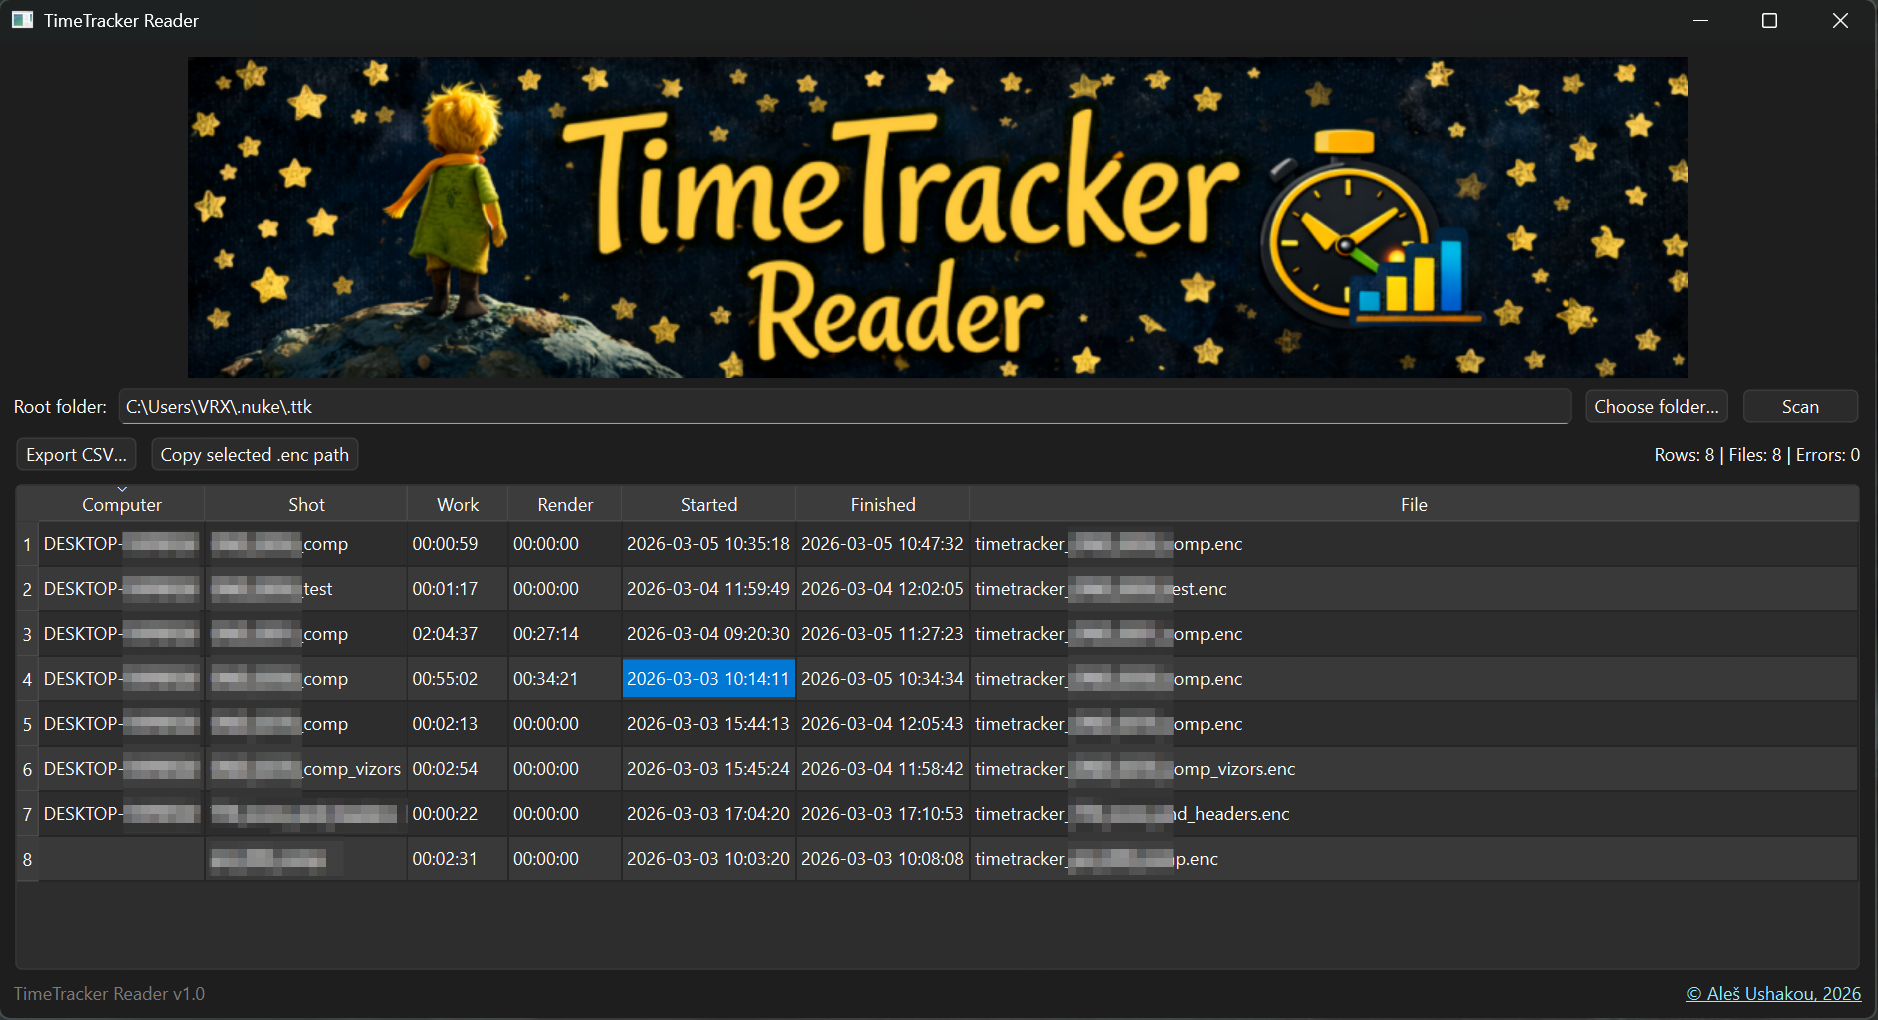
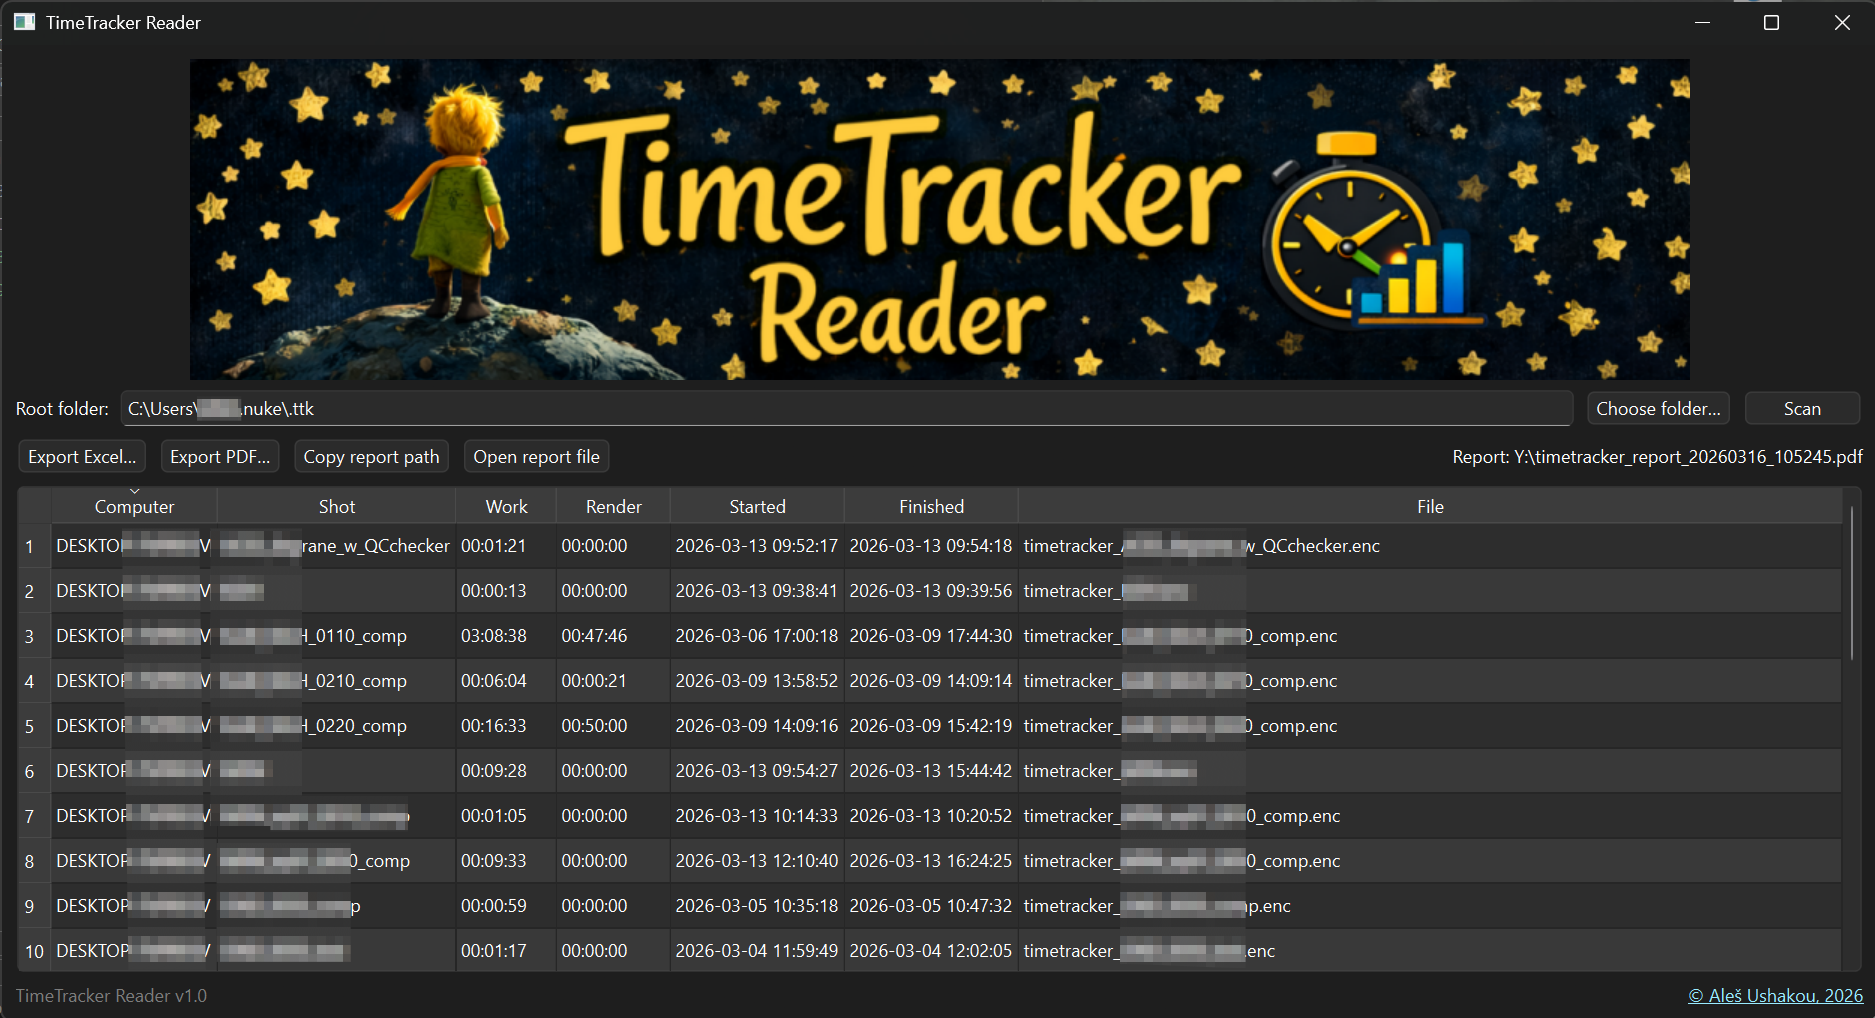
TTKReader v1.1 — add Excel/PDF export and report tools
TTKReader updated to version 1.1.

Changes:
- Added report export to Excel (.xlsx)
- Added report export to PDF
- Added "Copy report path" button
- Added "Open report file" button
- Removed CSV export
- Removed "Copy selected .enc path"
- Improved report workflow

Excel export uses openpyxl with automatic column width.
PDF export uses reportlab and includes formatted report layout.

diff --git a/TimeTracker/TTKReader/TTKReader.py b/TimeTracker/TTKReader/TTKReader.py
@@ -1,10 +1,11 @@
 import os
 import sys
-import csv
 import json
 import base64
 import hashlib
 import hmac
+import subprocess
+import shutil
 from datetime import datetime
 
 # ---- Qt ----
@@ -14,7 +15,7 @@ except ImportError:
     from PySide2 import QtWidgets, QtCore, QtGui
 
 
-TTK_VERSION = "1.0"
+TTK_VERSION = "1.1"
 _TIMETRACKER_KEY = "Ales_Ushakou_Internal_Key_2026"
 _TIMETRACKER_SALT = "Ales_Ushakou_Salt_2026"
 
@@ -186,9 +187,12 @@ class ReaderWindow(QtWidgets.QMainWindow):
         self.pathEdit = QtWidgets.QLineEdit()
         self.btnBrowse = QtWidgets.QPushButton("Choose folder…")
         self.btnScan = QtWidgets.QPushButton("Scan")
-        self.btnExport = QtWidgets.QPushButton("Export CSV…")
-        self.btnCopyFile = QtWidgets.QPushButton("Copy selected .enc path")
+        self.btnExportExcel = QtWidgets.QPushButton("Export Excel…")
+        self.btnExportPDF = QtWidgets.QPushButton("Export PDF…")
+        self.btnCopyReportPath = QtWidgets.QPushButton("Copy report path")
+        self.btnOpenReportFile = QtWidgets.QPushButton("Open report file")
         self.status = QtWidgets.QLabel("")
+        self.last_report_path = ""
 
         # ---- Version label (dynamic, safe) ----
 
@@ -211,8 +215,10 @@ class ReaderWindow(QtWidgets.QMainWindow):
         top.addWidget(self.btnScan)
 
         btns = QtWidgets.QHBoxLayout()
-        btns.addWidget(self.btnExport)
-        btns.addWidget(self.btnCopyFile)
+        btns.addWidget(self.btnExportExcel)
+        btns.addWidget(self.btnExportPDF)
+        btns.addWidget(self.btnCopyReportPath)
+        btns.addWidget(self.btnOpenReportFile)
         btns.addStretch(1)
         btns.addWidget(self.status)
 
@@ -253,8 +259,10 @@ class ReaderWindow(QtWidgets.QMainWindow):
 
         self.btnBrowse.clicked.connect(self.choose_folder)
         self.btnScan.clicked.connect(self.scan)
-        self.btnExport.clicked.connect(self.export_csv)
-        self.btnCopyFile.clicked.connect(self.copy_selected_file)
+        self.btnExportExcel.clicked.connect(self.export_excel)
+        self.btnExportPDF.clicked.connect(self.export_pdf)
+        self.btnCopyReportPath.clicked.connect(self.copy_report_path)
+        self.btnOpenReportFile.clicked.connect(self.open_report_file)
 
         # initial folder from settings (or fallback)
         try:
@@ -384,56 +392,191 @@ class ReaderWindow(QtWidgets.QMainWindow):
 
         self.table.setSortingEnabled(True)
 
-    def export_csv(self):
+    def _suggest_report_name(self, ext: str) -> str:
+        stamp = datetime.now().strftime("%Y%m%d_%H%M%S")
+        return f"timetracker_report_{stamp}.{ext}"
+
+    def _set_last_report_path(self, path: str):
+        self.last_report_path = os.path.normpath(path) if path else ""
+        if self.last_report_path:
+            self.set_status(f"Report: {self.last_report_path}")
+
+    def export_excel(self):
         if not self.rows:
             QtWidgets.QMessageBox.information(self, "Info", "Nothing to export. Scan first.")
             return
 
+        try:
+            from openpyxl import Workbook
+        except Exception:
+            QtWidgets.QMessageBox.warning(
+                self,
+                "Missing dependency",
+                "openpyxl is not installed.\nInstall it with: pip install openpyxl",
+            )
+            return
+
         out, _ = QtWidgets.QFileDialog.getSaveFileName(
             self,
-            "Export CSV",
-            "timetracker_report.csv",
-            "CSV (*.csv)",
+            "Export Excel",
+            self._suggest_report_name("xlsx"),
+            "Excel (*.xlsx)",
         )
         if not out:
             return
+        if not out.lower().endswith(".xlsx"):
+            out += ".xlsx"
 
-        with open(out, "w", newline="", encoding="utf-8") as f:
-            w = csv.writer(f)
-            w.writerow(COLS)
-            for r in self.rows:
-                w.writerow(
-                    [
-                        r.get("computer", ""),
-                        r.get("shot", ""),
-                        r.get("work", ""),
-                        r.get("render", ""),
-                        r.get("started_at", ""),
-                        r.get("finished_at", ""),
-                        r.get("file", ""),
-                    ]
-                )
+        wb = Workbook()
+        ws = wb.active
+        ws.title = "TimeTracker Report"
+        ws.append(COLS)
 
+        for r in self.rows:
+            ws.append([
+                r.get("computer", ""),
+                r.get("shot", ""),
+                r.get("work", ""),
+                r.get("render", ""),
+                r.get("started_at", ""),
+                r.get("finished_at", ""),
+                r.get("file", ""),
+            ])
+
+        # auto column width
+        for col_cells in ws.columns:
+            max_len = 0
+            col_letter = col_cells[0].column_letter
+            for cell in col_cells:
+                try:
+                    val = "" if cell.value is None else str(cell.value)
+                except Exception:
+                    val = ""
+                max_len = max(max_len, len(val))
+            ws.column_dimensions[col_letter].width = min(max(max_len + 2, 10), 60)
+
+        wb.save(out)
+        self._set_last_report_path(out)
         QtWidgets.QMessageBox.information(self, "Done", f"Saved:\n{out}")
 
-    def copy_selected_file(self):
-        row = self.table.currentRow()
-        if row < 0:
-            QtWidgets.QMessageBox.information(self, "Info", "Select a row first.")
+    def export_pdf(self):
+        if not self.rows:
+            QtWidgets.QMessageBox.information(self, "Info", "Nothing to export. Scan first.")
             return
 
-        fp_item = self.table.item(row, 6)
-        fp = ""
         try:
-            fp = (fp_item.data(QtCore.Qt.UserRole) or "") if fp_item else ""
+            from reportlab.lib import colors
+            from reportlab.lib.pagesizes import A4, landscape
+            from reportlab.lib.styles import getSampleStyleSheet, ParagraphStyle
+            from reportlab.lib.enums import TA_LEFT
+            from reportlab.lib.units import mm
+            from reportlab.platypus import SimpleDocTemplate, Table, TableStyle, Paragraph, Spacer, Image
         except Exception:
-            fp = ""
-
-        if not fp:
-            QtWidgets.QMessageBox.information(self, "Info", "Can't read file path from selection.")
+            QtWidgets.QMessageBox.warning(
+                self,
+                "Missing dependency",
+                "reportlab is not installed.\nInstall it with: pip install reportlab",
+            )
             return
 
-        QtWidgets.QApplication.clipboard().setText(os.path.normpath(fp))
+        out, _ = QtWidgets.QFileDialog.getSaveFileName(
+            self,
+            "Export PDF",
+            self._suggest_report_name("pdf"),
+            "PDF (*.pdf)",
+        )
+        if not out:
+            return
+        if not out.lower().endswith(".pdf"):
+            out += ".pdf"
+
+        doc = SimpleDocTemplate(out, pagesize=landscape(A4), leftMargin=12 * mm, rightMargin=12 * mm, topMargin=10 * mm, bottomMargin=10 * mm)
+        styles = getSampleStyleSheet()
+        title_style = ParagraphStyle("TTKTitle", parent=styles["Title"], alignment=TA_LEFT, textColor=colors.HexColor("#ff8a00"), fontSize=18, leading=22, spaceAfter=4)
+        subtitle_style = ParagraphStyle("TTKSubtitle", parent=styles["Normal"], alignment=TA_LEFT, fontSize=9, textColor=colors.HexColor("#666666"), leading=11, spaceAfter=10)
+
+        elements = []
+
+        banner = _banner_path()
+        if os.path.isfile(banner):
+            try:
+                img = Image(banner)
+                max_w = doc.width
+                iw = float(getattr(img, 'imageWidth', 1) or 1)
+                ih = float(getattr(img, 'imageHeight', 1) or 1)
+                scale = min(max_w / iw, 1.0)
+                img.drawWidth = iw * scale
+                img.drawHeight = ih * scale
+                elements.append(img)
+                elements.append(Spacer(1, 6))
+            except Exception:
+                pass
+
+        elements.append(Paragraph("TimeTracker Report", title_style))
+        elements.append(Paragraph("from TTKReader", subtitle_style))
+
+        data = [COLS]
+        for r in self.rows:
+            data.append([
+                r.get("computer", ""),
+                r.get("shot", ""),
+                r.get("work", ""),
+                r.get("render", ""),
+                r.get("started_at", ""),
+                r.get("finished_at", ""),
+                r.get("file", ""),
+            ])
+
+        table = Table(data, repeatRows=1)
+        table.setStyle(TableStyle([
+            ("BACKGROUND", (0, 0), (-1, 0), colors.HexColor("#ff8a00")),
+            ("TEXTCOLOR", (0, 0), (-1, 0), colors.white),
+            ("FONTNAME", (0, 0), (-1, 0), "Helvetica-Bold"),
+            ("FONTSIZE", (0, 0), (-1, -1), 8),
+            ("LEADING", (0, 0), (-1, -1), 10),
+            ("GRID", (0, 0), (-1, -1), 0.25, colors.HexColor("#cccccc")),
+            ("ROWBACKGROUNDS", (0, 1), (-1, -1), [colors.whitesmoke, colors.HexColor("#f7f7f7")]),
+            ("ALIGN", (2, 1), (3, -1), "LEFT"),
+            ("VALIGN", (0, 0), (-1, -1), "MIDDLE"),
+            ("LEFTPADDING", (0, 0), (-1, -1), 6),
+            ("RIGHTPADDING", (0, 0), (-1, -1), 6),
+            ("TOPPADDING", (0, 0), (-1, -1), 4),
+            ("BOTTOMPADDING", (0, 0), (-1, -1), 4),
+        ]))
+        elements.append(table)
+
+        doc.build(elements)
+        self._set_last_report_path(out)
+        QtWidgets.QMessageBox.information(self, "Done", f"Saved:\n{out}")
+
+    def copy_report_path(self):
+        if not self.last_report_path:
+            QtWidgets.QMessageBox.information(self, "Info", "No report file yet. Export Excel or PDF first.")
+            return
+        QtWidgets.QApplication.clipboard().setText(self.last_report_path)
+        self.set_status(f"Copied report path: {self.last_report_path}")
+
+    def open_report_file(self):
+        if not self.last_report_path:
+            QtWidgets.QMessageBox.information(self, "Info", "No report file yet. Export Excel or PDF first.")
+            return
+        path = self.last_report_path
+        if not os.path.isfile(path):
+            QtWidgets.QMessageBox.warning(self, "Error", f"File not found:\n{path}")
+            return
+        try:
+            if sys.platform.startswith("win"):
+                os.startfile(path)
+            elif sys.platform == "darwin":
+                subprocess.Popen(["open", path])
+            else:
+                opener = shutil.which("xdg-open")
+                if opener:
+                    subprocess.Popen([opener, path])
+                else:
+                    raise RuntimeError("xdg-open not found")
+        except Exception as e:
+            QtWidgets.QMessageBox.warning(self, "Error", f"Could not open file:\n{e}")
 
 
 def main():

diff --git a/README.md b/README.md
@@ -1,7 +1,7 @@
-<div align="center">
-<h1> ⏱ TimeTracker for Nuke </h1>
 
-<p align="center">
+<h1 align="center"> ⏱ TimeTracker for Nuke </h1>
+
+<p>
 <img src="assets/timeTracker.png" width="100%">
 </p>
 
@@ -95,15 +95,13 @@ v1.02
 
 ------------------------------------------------------------------------
 
-## 📊 TimeTracker Reader (Standalone)
+## 📊 TimeTracker Reader
+Standalone utility for reading encrypted tracking files.
 
 
 <p align="center">
 <img src="assets/read_ttk.png" width="100%">
 </p>
-
-Standalone utility for reading encrypted tracking files.
-
 
 
 ### Reader Features
@@ -111,8 +109,18 @@ Standalone utility for reading encrypted tracking files.
 -   Scan `.ttk` folders
 -   View all tracked shots
 -   Sort by work / render time
--   Export to CSV
+-   Export reports to **Excel (.xlsx)** or **PDF**
+-   Copy report path
+-   Open exported report directly
 -   No Nuke required
+
+### Reader Requirements
+
+The standalone reader requires:
+
+```
+pip install openpyxl reportlab
+```
 
 
 ## 🖥 Main Window
